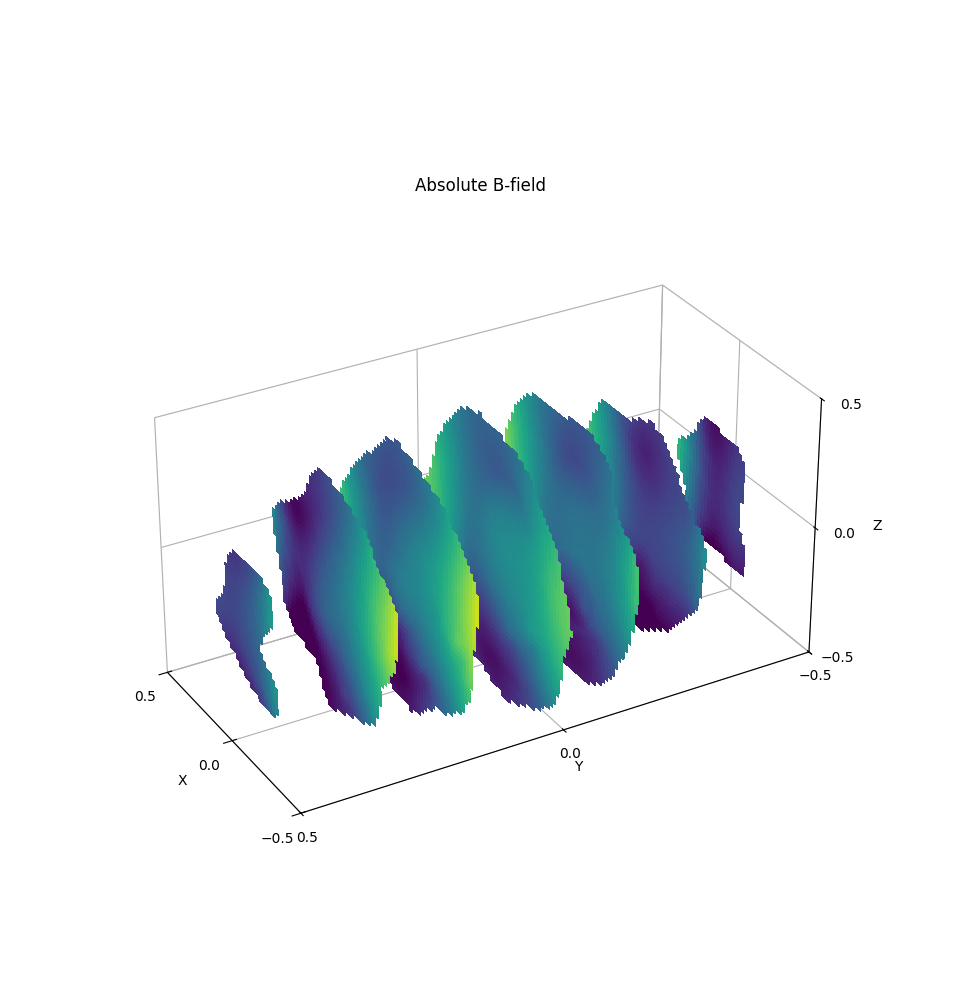
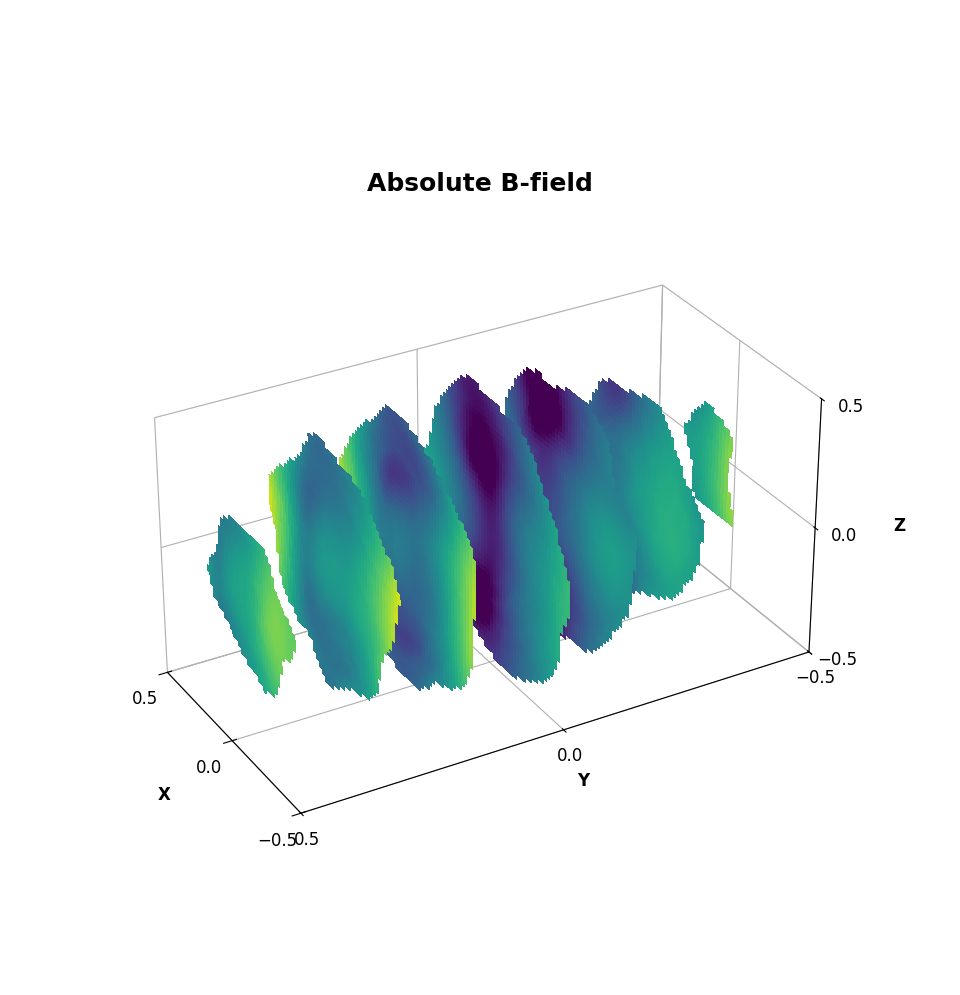
plots

diff --git a/examples/plot_3d.py b/examples/plot_3d.py
@@ -72,15 +72,20 @@ for EM_FIELD in em_FIELD:
                         rstride=1, cstride=1, linewidth=0, antialiased=False, shade=False)
 
     ax.view_init(elev=30, azim=150)
-    ax.set_xlabel('X')
-    ax.set_ylabel('Y')
-    ax.set_zlabel('Z')
+    ax.set_xlabel('X', fontsize=12, fontweight='bold')
+    ax.set_ylabel('Y', fontsize=12, fontweight='bold')
+    ax.set_zlabel('Z', fontsize=12, fontweight='bold')
 
     s = 0.5
     s2 = 0.5
     ax.set_xlim(-s, s)
     ax.set_ylim(-s2, s2)
     ax.set_zlim(-s, s)
+    ax.tick_params(axis='both', which='major', labelsize=12)
+    ax.tick_params(axis='z', which='major', labelsize=12)
+    ax.xaxis.labelpad = 13
+    ax.yaxis.labelpad = 13
+    ax.zaxis.labelpad = 13
     ax.set_xticks(np.linspace(-s, s, 3))
     ax.set_yticks(np.linspace(-s2, s2, 3))
     ax.set_zticks(np.linspace(-s, s, 3))
@@ -96,9 +101,9 @@ for EM_FIELD in em_FIELD:
     # Hide axes lines
     plt.axis('on')
     if EM_FIELD == 'e-field':
-        ax.set_title('Absolute E-field')
+        ax.set_title('Absolute E-field', fontsize=18, fontweight='bold')
         fig.canvas.manager.set_window_title("3D E-Field Visualization")
     else:
-        ax.set_title('Absolute B-field')
+        ax.set_title('Absolute B-field', fontsize=18, fontweight='bold')
         fig.canvas.manager.set_window_title("3D B-Field Visualization")
     plt.show()

diff --git a/README.md b/README.md
@@ -189,7 +189,7 @@ for epoch in range(10):
         print(f"Epoch: {epoch}, Batch: {i}, Loss: {loss.item()}")
 ```
 
-### Example: Generating Experiment Meshes
+### Example: Generating Object Meshes
 In the following it is shown how to generate your own sample data.
 The following code snippet generates stl files with the given Tissue data.
 
